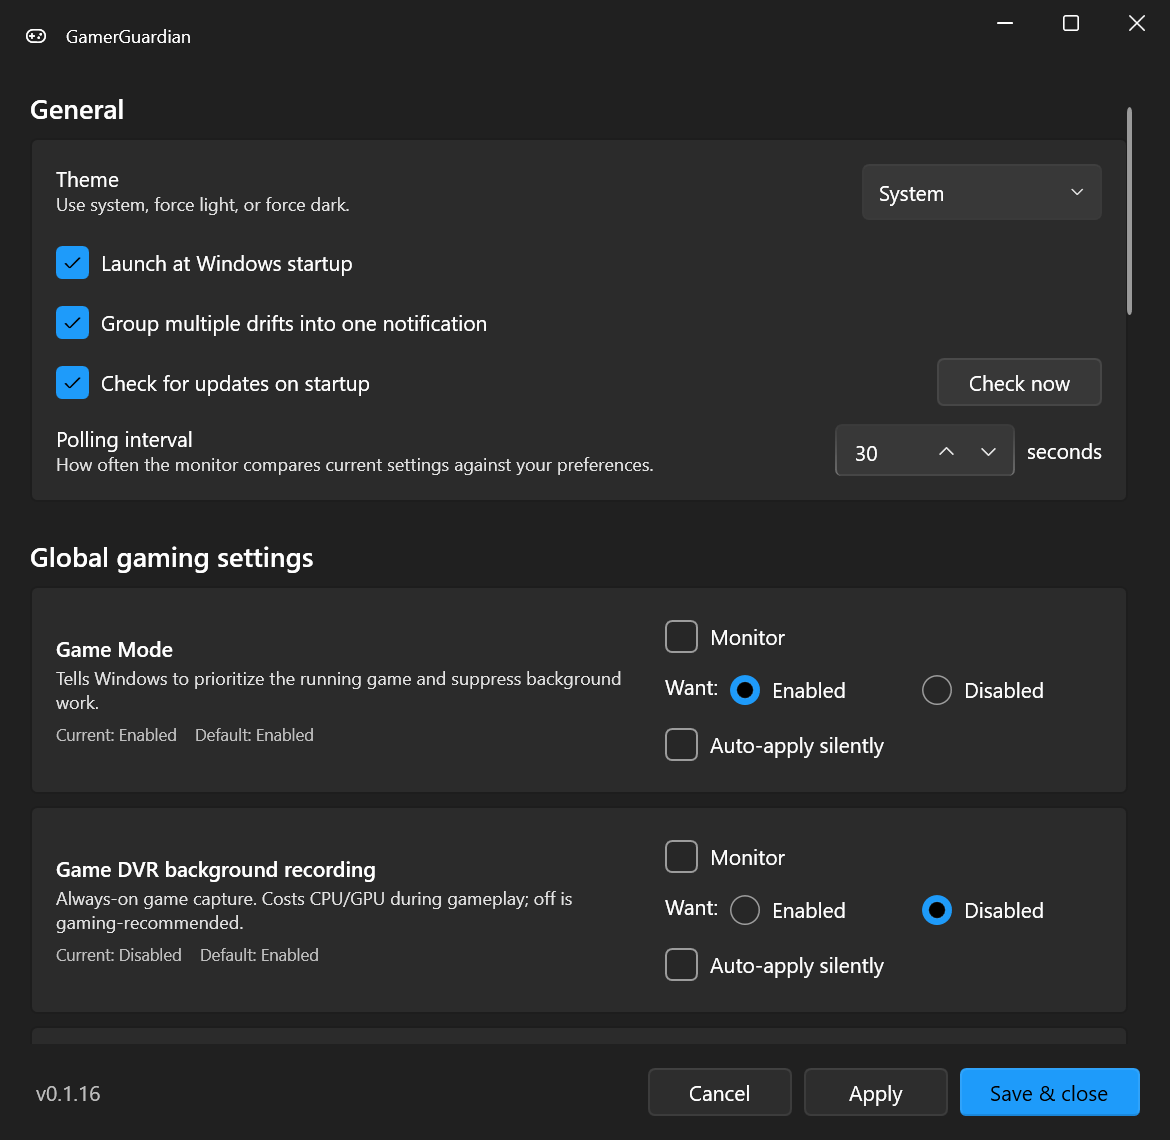
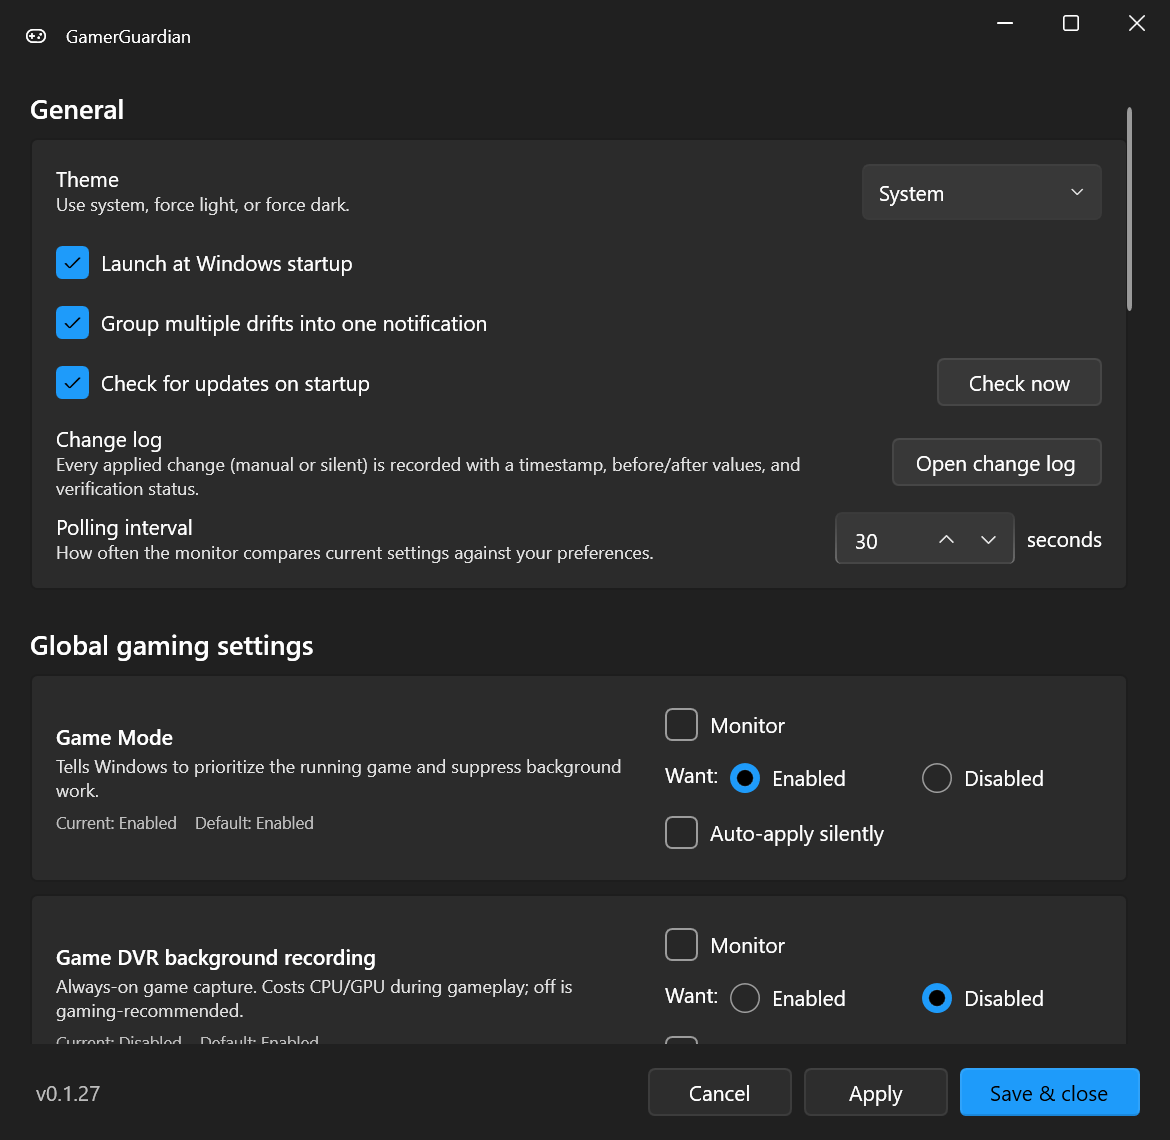
fix: power plan combo lists all installed plans (custom + Windows defaults)

diff --git a/src/GamerGuardian/UI/SettingsWindow.xaml b/src/GamerGuardian/UI/SettingsWindow.xaml
@@ -183,12 +183,17 @@
                                 </StackPanel>
                             </StackPanel>
                             <StackPanel Grid.Column="1" Orientation="Vertical">
-                                <CheckBox x:Name="PowerPlanMonitorCheck" Content="Monitor"/>
+                                <CheckBox x:Name="PowerPlanMonitorCheck" Content="Monitor"
+                                          Checked="PowerPlanMonitorCheck_Changed"
+                                          Unchecked="PowerPlanMonitorCheck_Changed"/>
                                 <StackPanel Orientation="Horizontal" Margin="0,4,0,4">
                                     <TextBlock Text="Want:" Margin="0,6,8,0"/>
-                                    <ComboBox x:Name="PowerPlanCombo" Width="180"/>
+                                    <ComboBox x:Name="PowerPlanCombo" Width="240"
+                                              SelectionChanged="PowerPlanCombo_SelectionChanged"/>
                                 </StackPanel>
-                                <CheckBox x:Name="PowerPlanAutoApplyCheck" Content="Auto-apply silently"/>
+                                <CheckBox x:Name="PowerPlanAutoApplyCheck" Content="Auto-apply silently"
+                                          Checked="PowerPlanAutoApplyCheck_Changed"
+                                          Unchecked="PowerPlanAutoApplyCheck_Changed"/>
                             </StackPanel>
                         </Grid>
                     </ui:Card>

diff --git a/src/GamerGuardian/UI/SettingsWindow.xaml.cs b/src/GamerGuardian/UI/SettingsWindow.xaml.cs
@@ -283,6 +283,39 @@ public partial class SettingsWindow : FluentWindow
             ThemeService.Apply(c);
     }
 
+    private void PowerPlanCombo_SelectionChanged(object sender, SelectionChangedEventArgs e)
+    {
+        if (PowerPlanCombo.SelectedItem is not PowerPlanItem pi) return;
+        var oldGuid = _config.Global.PowerPlan.DesiredGuid;
+        var oldName = _config.Global.PowerPlan.DesiredName;
+        _config.Global.PowerPlan.DesiredGuid = pi.Guid.ToString();
+        _config.Global.PowerPlan.DesiredName = pi.Name;
+        try { _store.Save(_config); } catch { }
+        if (oldGuid != pi.Guid.ToString())
+            ChangeLogger.LogPreferenceChange("Power plan", "Want",
+                oldName ?? oldGuid ?? "(unset)", pi.Name);
+    }
+
+    private void PowerPlanMonitorCheck_Changed(object sender, RoutedEventArgs e)
+    {
+        var v = PowerPlanMonitorCheck.IsChecked == true;
+        if (_config.Global.PowerPlan.Monitor == v) return;
+        var before = _config.Global.PowerPlan.Monitor;
+        _config.Global.PowerPlan.Monitor = v;
+        try { _store.Save(_config); } catch { }
+        ChangeLogger.LogPreferenceChange("Power plan", "Monitor", before.ToString(), v.ToString());
+    }
+
+    private void PowerPlanAutoApplyCheck_Changed(object sender, RoutedEventArgs e)
+    {
+        var v = PowerPlanAutoApplyCheck.IsChecked == true;
+        if (_config.Global.PowerPlan.AutoApply == v) return;
+        var before = _config.Global.PowerPlan.AutoApply;
+        _config.Global.PowerPlan.AutoApply = v;
+        try { _store.Save(_config); } catch { }
+        ChangeLogger.LogPreferenceChange("Power plan", "AutoApply", before.ToString(), v.ToString());
+    }
+
     private void OpenChangeLogButton_Click(object sender, RoutedEventArgs e)
     {
         try
@@ -397,8 +430,11 @@ public partial class SettingsWindow : FluentWindow
 
         _config.Global.PowerPlan.Monitor = PowerPlanMonitorCheck.IsChecked == true;
         _config.Global.PowerPlan.AutoApply = PowerPlanAutoApplyCheck.IsChecked == true;
-        if (PowerPlanCombo.SelectedItem is PowerPlanChoice c)
-            _config.Global.PowerPlan.Desired = c;
+        if (PowerPlanCombo.SelectedItem is PowerPlanItem pi)
+        {
+            _config.Global.PowerPlan.DesiredGuid = pi.Guid.ToString();
+            _config.Global.PowerPlan.DesiredName = pi.Name;
+        }
 
         foreach (var row in GlobalToggleRows) row.WriteBack();
         foreach (var row in DisplayRows) row.WriteTo(_config);
@@ -441,6 +477,14 @@ public partial class SettingsWindow : FluentWindow
         _suppressSaveOnClose = true;
         Close();
     }
+}
+
+public sealed class PowerPlanItem
+{
+    public Guid Guid { get; }
+    public string Name { get; }
+    public PowerPlanItem(Guid guid, string name) { Guid = guid; Name = name; }
+    public override string ToString() => Name;
 }
 
 public sealed class GlobalToggleRow : INotifyPropertyChanged

diff --git a/src/GamerGuardian/Monitors/PowerPlanMonitor.cs b/src/GamerGuardian/Monitors/PowerPlanMonitor.cs
@@ -19,11 +19,14 @@ public sealed class PowerPlanMonitor : IMonitoredSetting
         var active = GetActivePlan();
         if (active == Guid.Empty) yield break;
 
-        var desiredGuid = ToGuid(pref.Desired);
+        var desiredGuid = ResolveDesiredGuid(pref);
+        if (desiredGuid == Guid.Empty) yield break;
         if (active == desiredGuid) yield break;
 
         var available = ListAvailablePlans();
         if (!available.ContainsKey(desiredGuid)) yield break;
+
+        var desiredName = pref.DesiredName ?? available[desiredGuid];
 
         yield return new DriftItem(
             SettingId: Id,
@@ -31,12 +34,19 @@ public sealed class PowerPlanMonitor : IMonitoredSetting
             DisplayLabel: "Global",
             Description: "Windows power plan",
             CurrentValue: available.GetValueOrDefault(active, active.ToString()),
-            DesiredValue: pref.Desired.ToString(),
+            DesiredValue: desiredName,
             AutoApply: pref.AutoApply,
             Apply: () => Task.Run(() => SetActivePlan(desiredGuid)),
             IsMonitored: pref.Monitor,
             RawBefore: active.ToString(),
             RawDesired: desiredGuid.ToString());
+    }
+
+    public static Guid ResolveDesiredGuid(PowerPlanPref pref)
+    {
+        if (!string.IsNullOrEmpty(pref.DesiredGuid) && Guid.TryParse(pref.DesiredGuid, out var g))
+            return g;
+        return ToGuid(pref.Desired);
     }
 
     public static Guid ToGuid(PowerPlanChoice c) => c switch

diff --git a/src/GamerGuardian/Models/AppConfig.cs b/src/GamerGuardian/Models/AppConfig.cs
@@ -89,6 +89,10 @@ public sealed class PowerPlanPref
 {
     public bool Monitor { get; set; } = false;
     public PowerPlanChoice Desired { get; set; } = PowerPlanChoice.HighPerformance;
+    /// <summary>Specific power scheme GUID the user picked. Takes precedence over <see cref="Desired"/> when set.</summary>
+    public string? DesiredGuid { get; set; }
+    /// <summary>Friendly name cached at selection time (for display when the GUID isn't currently installed).</summary>
+    public string? DesiredName { get; set; }
     public bool AutoApply { get; set; } = false;
 }
 